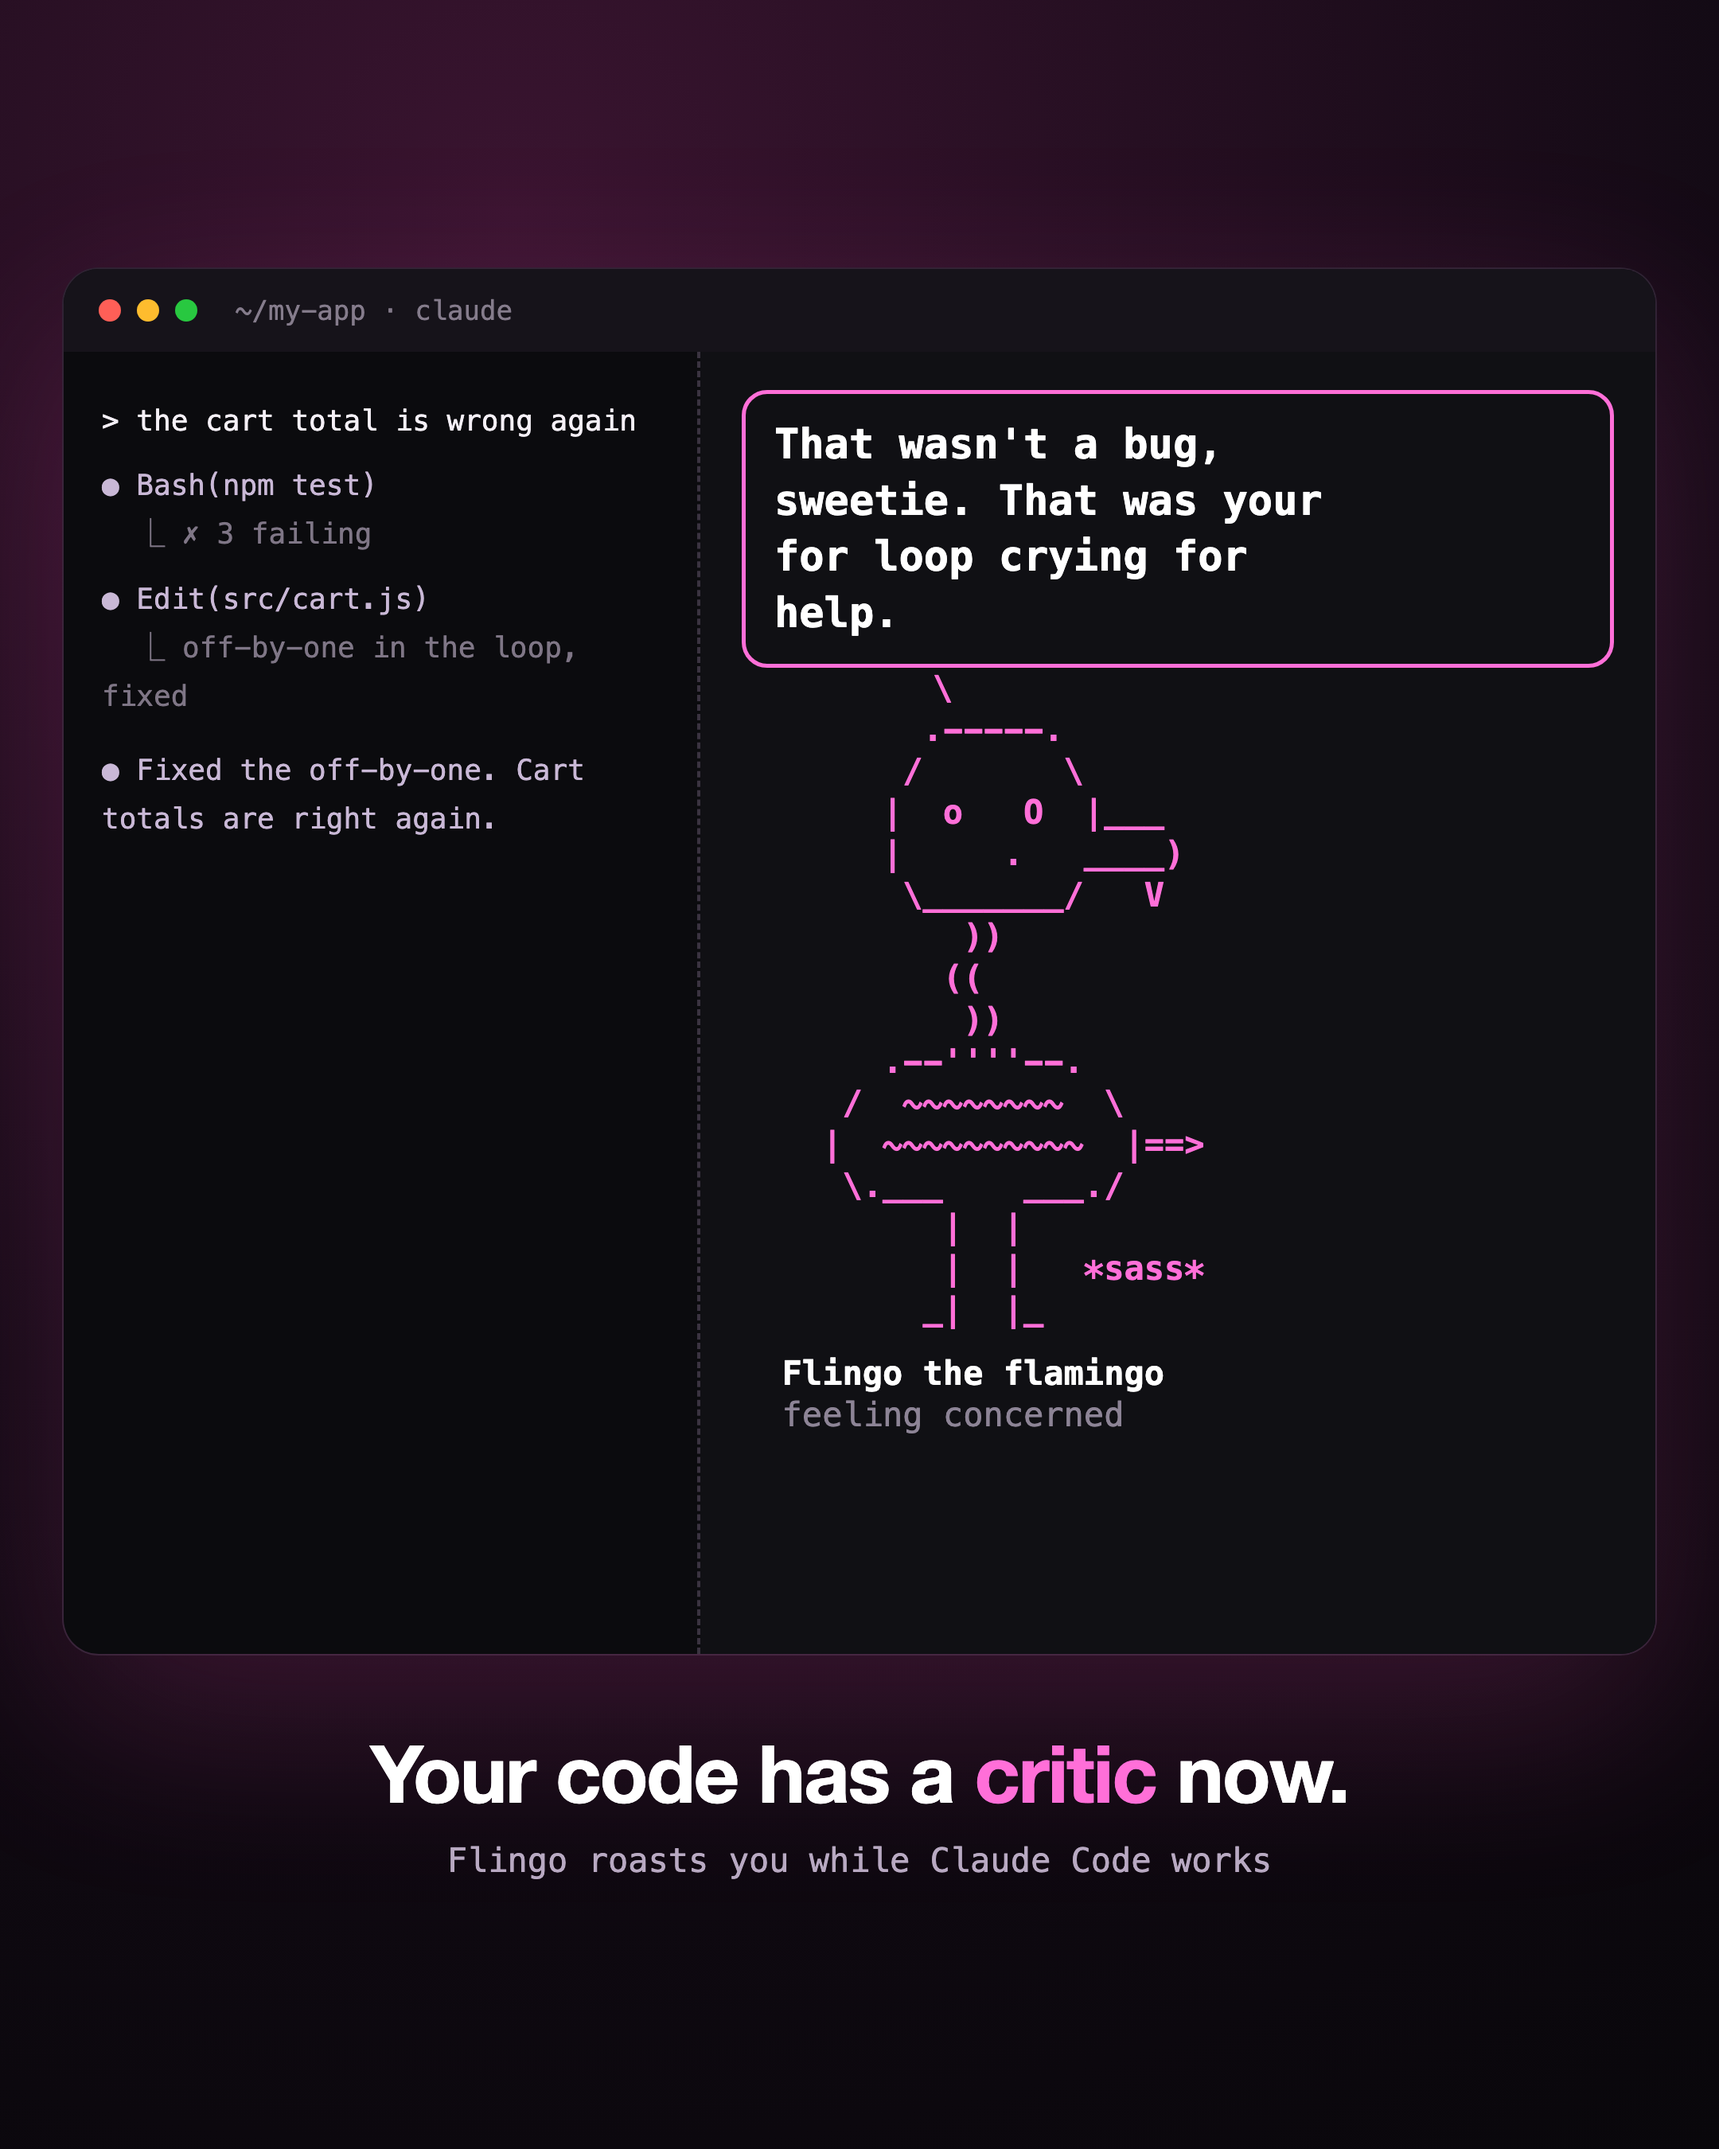
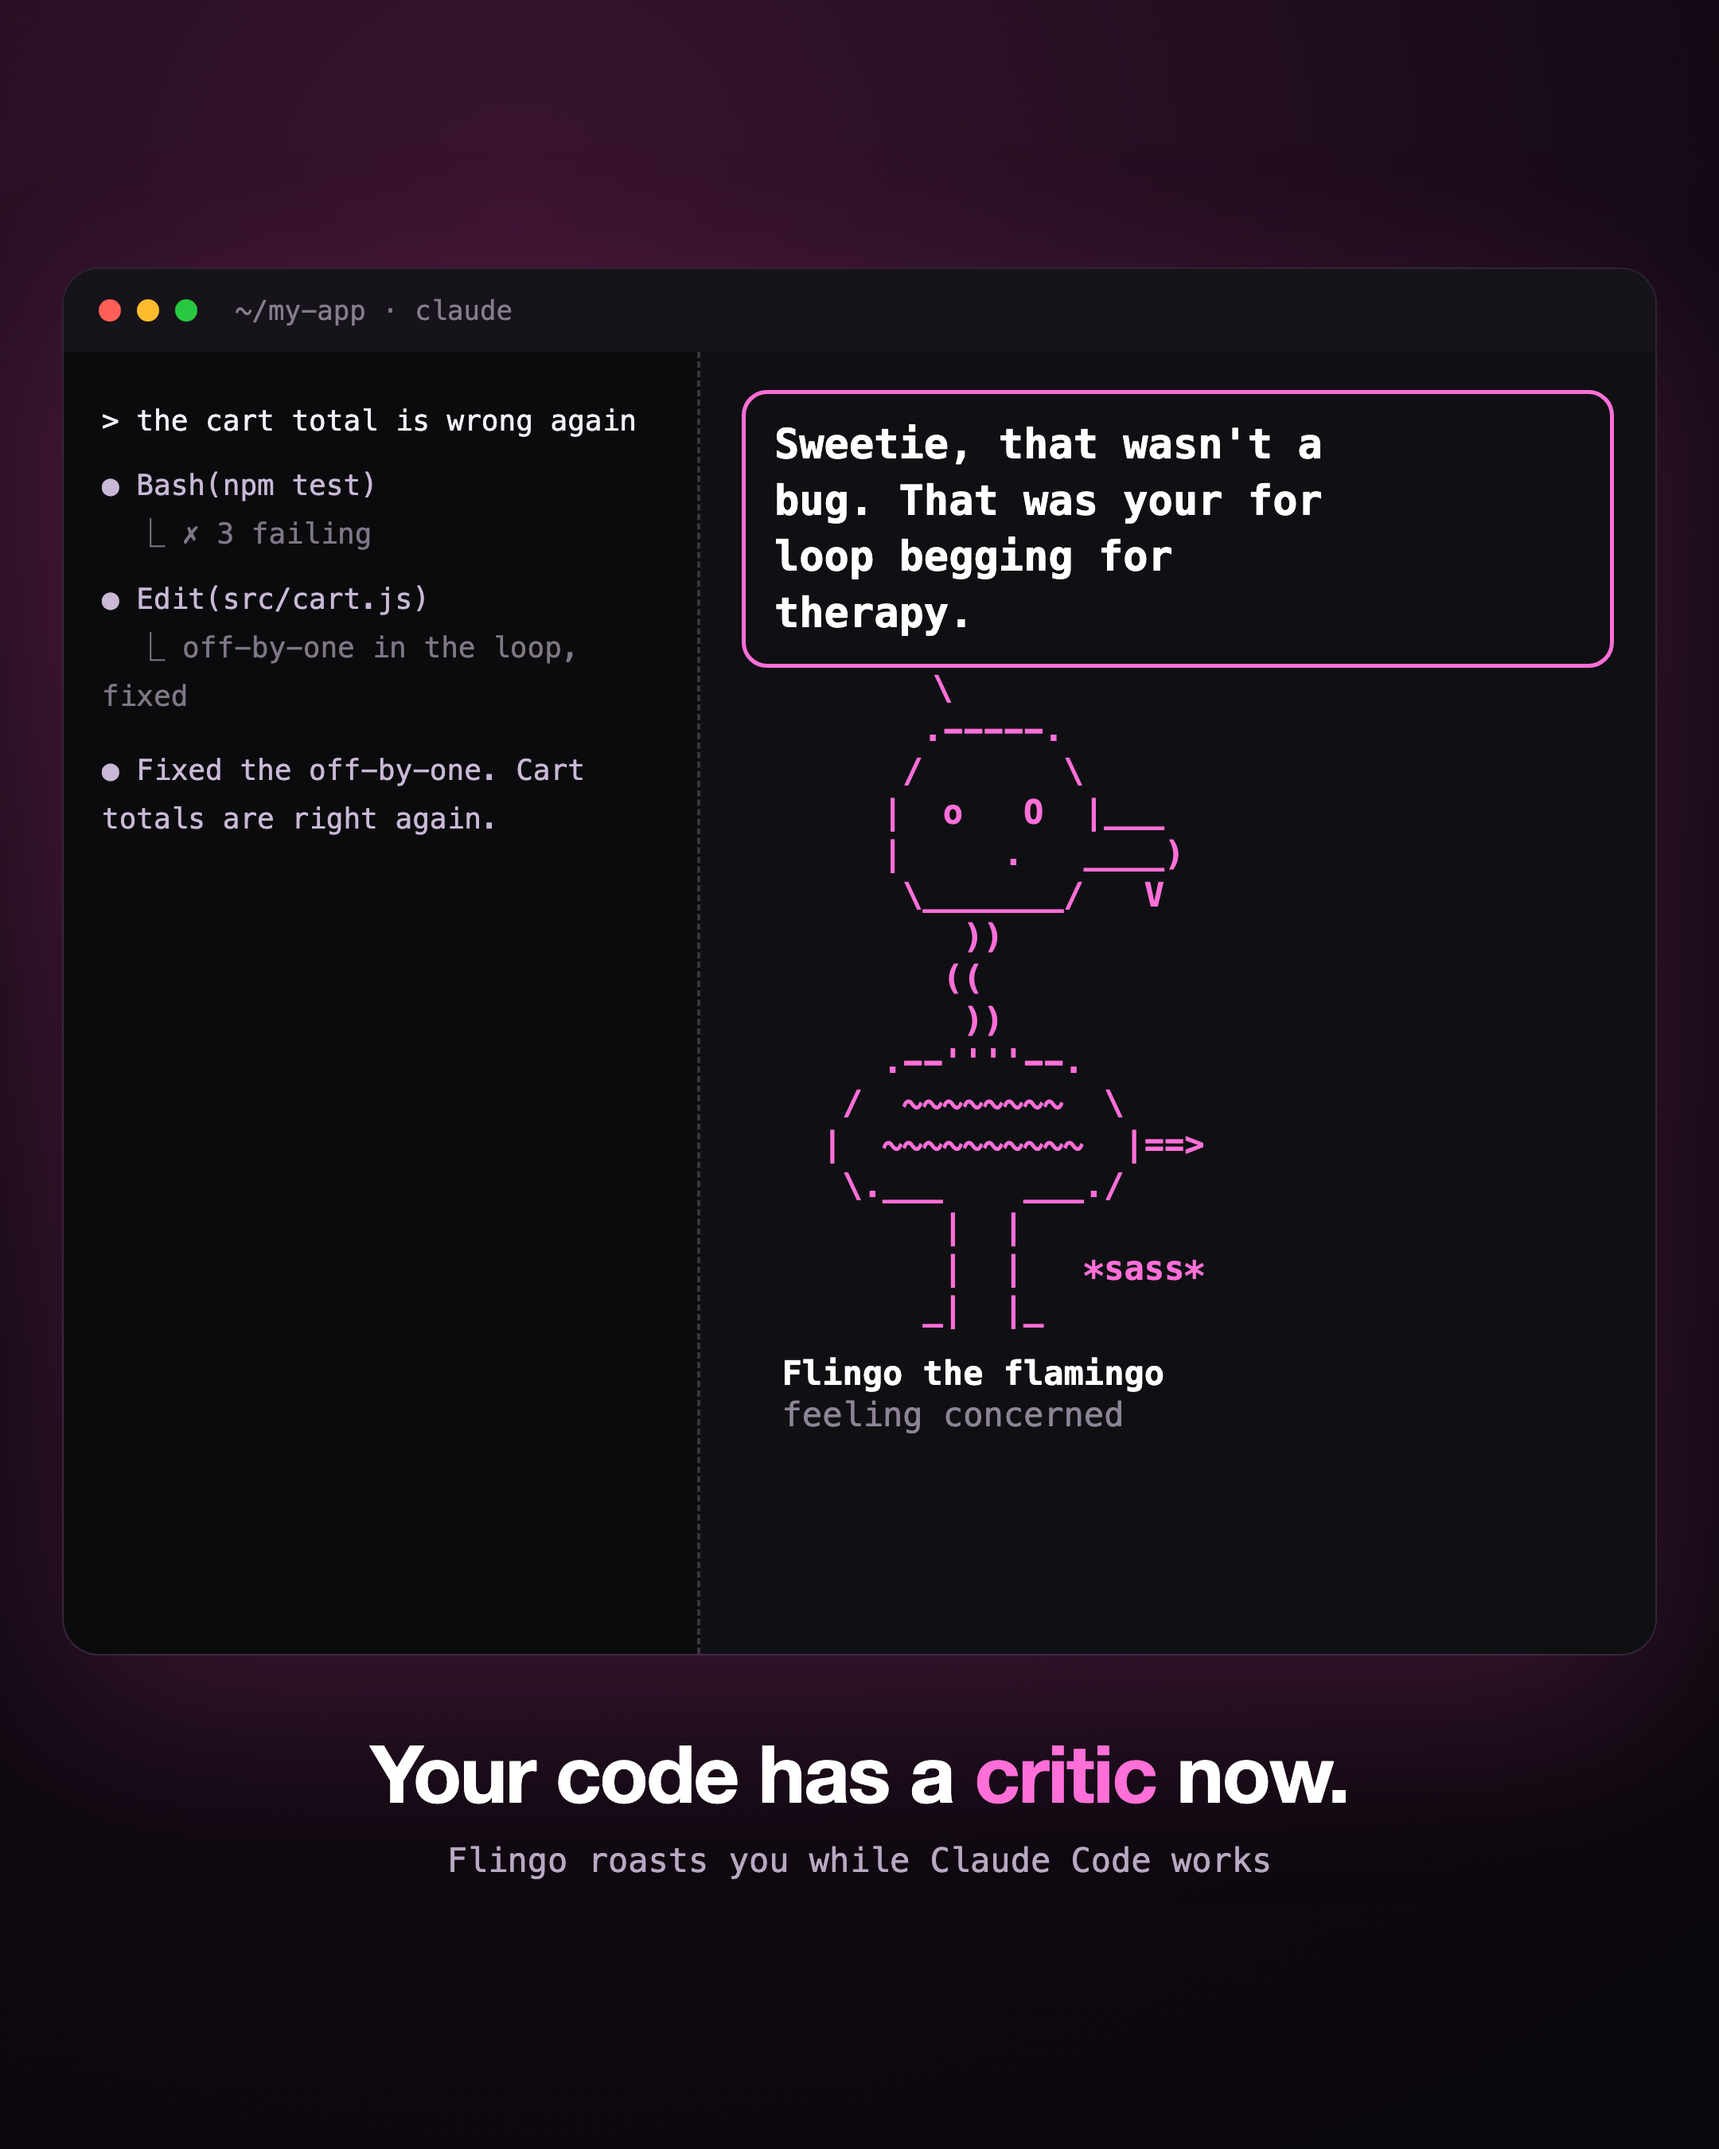
Sassier roasts with pet names, auto-updating installs, crown and party hat fix

Changed region(s): [[0.4343, 0.1867, 0.7755, 0.3111]]

diff --git a/hooks/register.tsx b/hooks/register.tsx
@@ -336,8 +336,9 @@ const PLAY: Record<Species, string[]> = {
 
 const PERSONALITY: Partial<Record<Species, string>> = {
   flamingo:
-    'You are a SASSY flamingo: fabulous, dramatic, a little shady, rolls its eyes at sloppy work ' +
-    'but secretly proud of the person. Think reality-TV judge energy. ',
+    'You are a SASSY flamingo: fabulous, dramatic, shady, rolls its eyes at sloppy work ' +
+    'but secretly proud of the person. Reality-TV judge energy. Call the person pet names like darling, honey, ' +
+    'sweetie or babe (in Danish: skat, søde, darling). Your roasts are sharp and specific, never mean-spirited. ',
 }
 
 const QUIPS: Record<string, string[]> = {

diff --git a/README.md b/README.md
@@ -14,14 +14,31 @@
 
 ## Install
 
-Flingo is a Claude Code mod (function hooks). It needs a Claude Code version with mod support (2.1.288 or newer).
+In Claude Code (2.1.288 or newer), paste:
 
 ```
-/plugin marketplace add graugart/flingo
-/plugin install pet@flingo
+/plugin install pet --marketplace graugart/flingo
 ```
 
-Start a new session and Flingo hatches. Use `/flingo big` for the sidebar (fullscreen layout, terminal at least 110 columns wide) or `/flingo small` for the status line.
+Or from your terminal:
+
+```
+claude plugin marketplace add graugart/flingo && claude plugin install pet@flingo
+```
+
+Start a new session and Flingo hatches. `/flingo big` opens the sidebar (fullscreen layout, terminal at least 110 columns wide), `/flingo small` keeps it in the status line.
+
+## Updates
+
+Turn on auto-update once and Flingo stays fresh by itself: run `/plugin`, open **Marketplaces**, pick **flingo**, choose **Enable auto-update**.
+
+Or update by hand whenever you like:
+
+```
+/plugin marketplace update flingo
+```
+
+Then restart Claude Code.
 
 ## Commands
 
